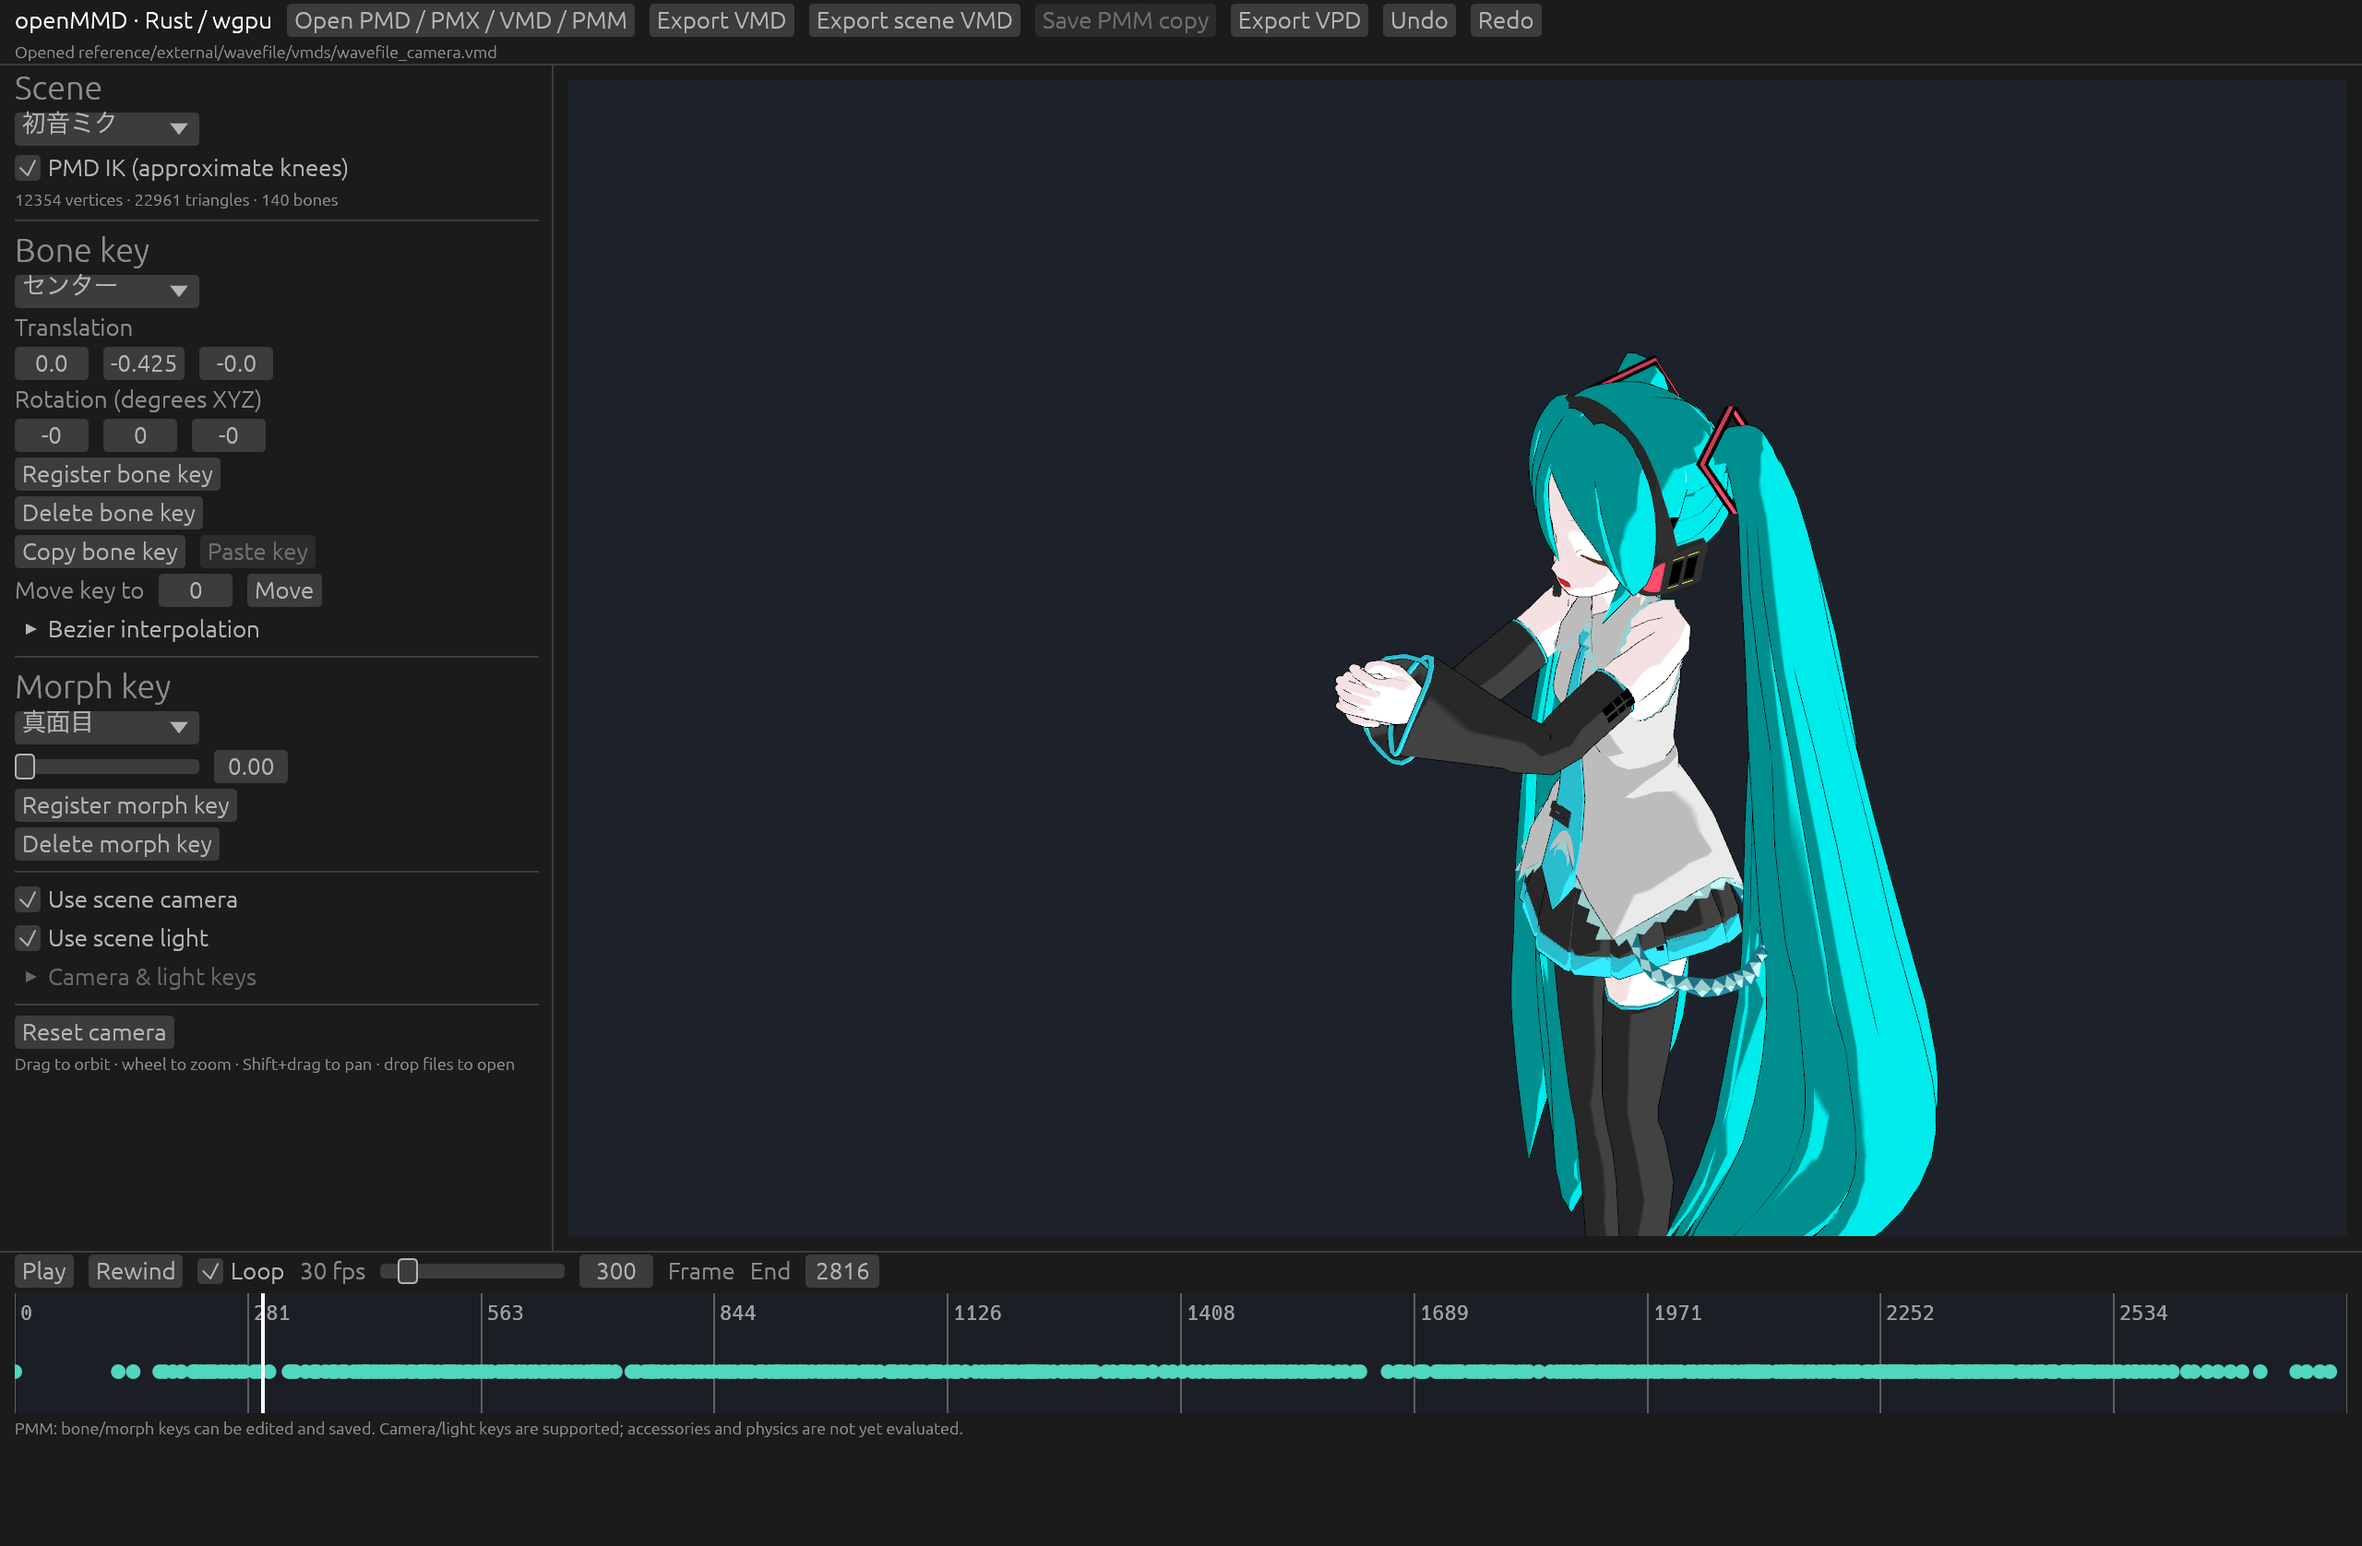
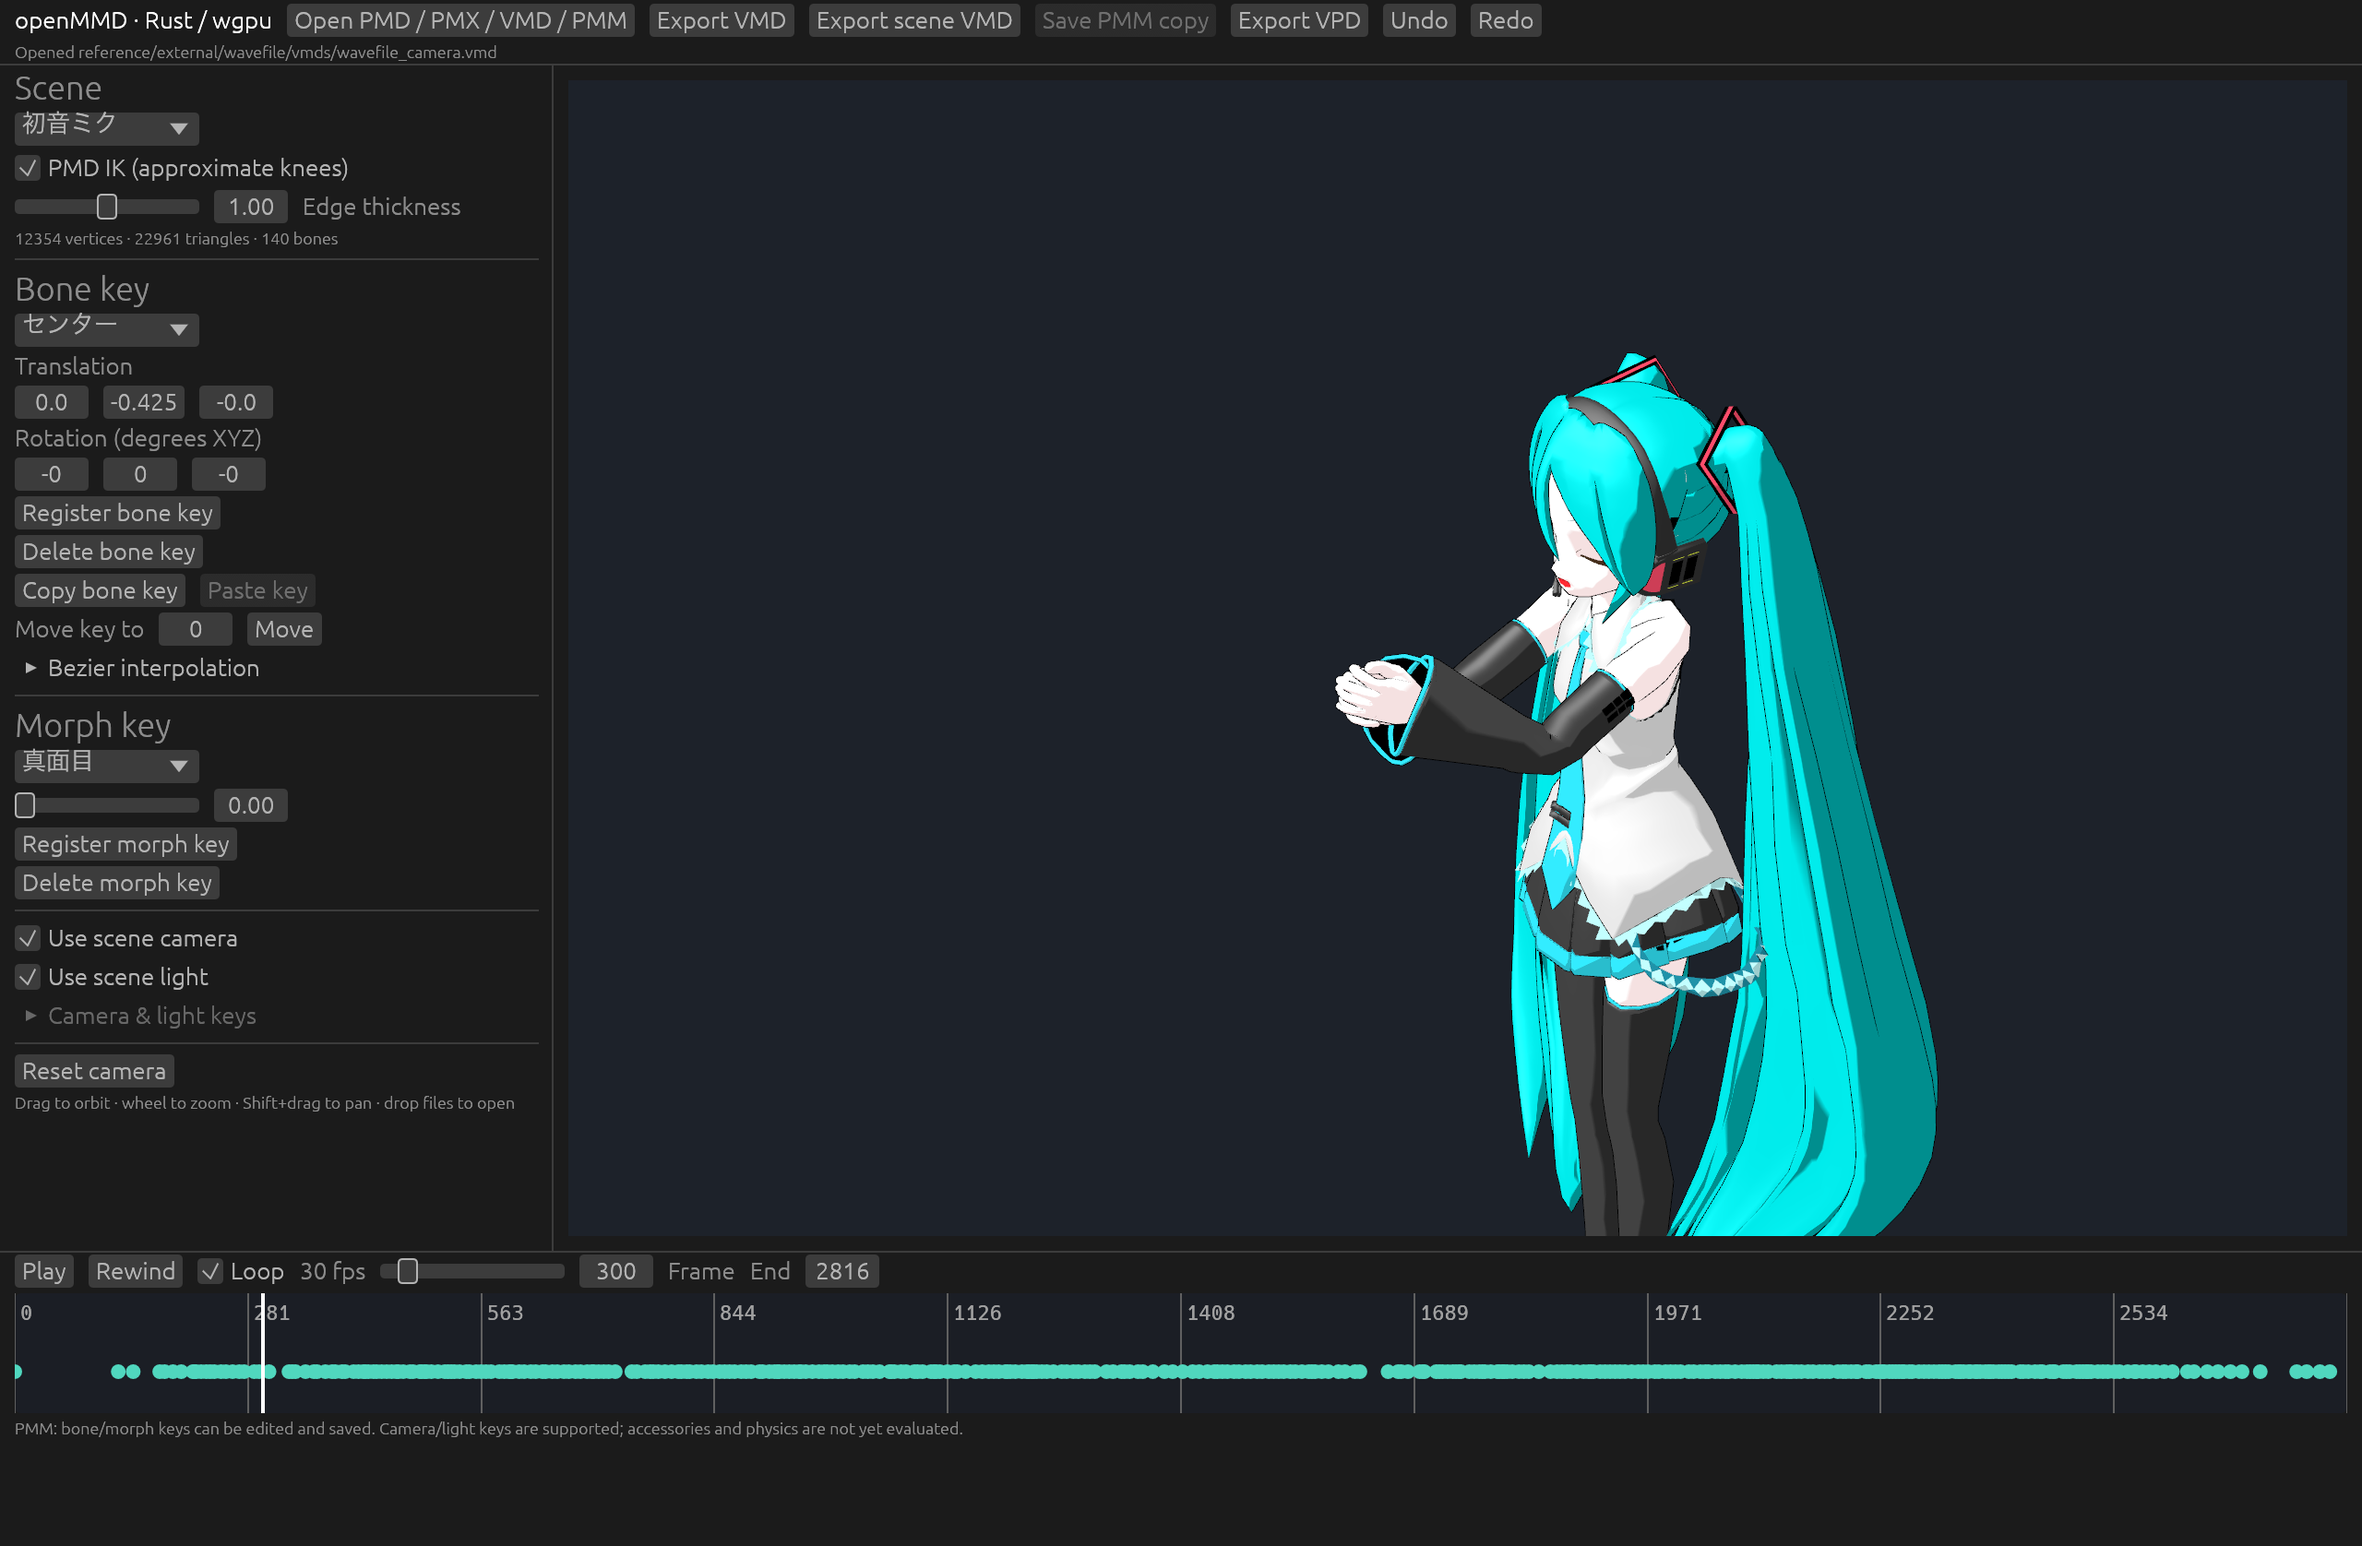
Honor material sidedness and correct mesh front-face lighting

Changed region(s): [[0.5625, 0.2172, 0.8438, 0.8067], [0.0, 0.1241, 0.1875, 0.7136], [0.1562, 0.6826, 0.1875, 0.7136]]

diff --git a/src/renderer.rs b/src/renderer.rs
@@ -62,6 +62,7 @@ pub fn orbit_projection(size: [u32; 2], yaw: f32, pitch: f32, distance: f32, foc
 pub struct Renderer {
     state: egui_wgpu::RenderState,
     pipeline: wgpu::RenderPipeline,
+    double_sided_pipeline: wgpu::RenderPipeline,
     outline_pipeline: wgpu::RenderPipeline,
     camera_buffer: wgpu::Buffer,
     camera_group: wgpu::BindGroup,
@@ -182,7 +183,7 @@ impl Renderer {
             label: Some("PMD toon shader"),
             source: wgpu::ShaderSource::Wgsl(include_str!("model.wgsl").into()),
         });
-        let make_pipeline = |outline| {
+        let make_pipeline = |outline, double_sided| {
             device.create_render_pipeline(&wgpu::RenderPipelineDescriptor {
             label: Some(if outline { "MMD outlines" } else { "MMD mesh" }),
             layout: Some(&layout),
@@ -207,8 +208,8 @@ impl Renderer {
                 })],
             }),
             primitive: wgpu::PrimitiveState {
-                front_face: if outline { wgpu::FrontFace::Cw } else { wgpu::FrontFace::Ccw },
-                cull_mode: if outline { Some(wgpu::Face::Front) } else { None },
+                front_face: wgpu::FrontFace::Cw,
+                cull_mode: if outline { Some(wgpu::Face::Front) } else if double_sided { None } else { Some(wgpu::Face::Back) },
                 ..Default::default()
             },
             depth_stencil: Some(wgpu::DepthStencilState {
@@ -221,8 +222,9 @@ impl Renderer {
             multiview_mask: None, cache: None,
         })
         };
-        let pipeline = make_pipeline(false);
-        let outline_pipeline = make_pipeline(true);
+        let pipeline = make_pipeline(false, false);
+        let double_sided_pipeline = make_pipeline(false, true);
+        let outline_pipeline = make_pipeline(true, false);
         let size = [800, 600];
         let output = target(device, size, wgpu::TextureFormat::Rgba8UnormSrgb);
         let multisample = target_multisample(device, size, wgpu::TextureFormat::Rgba8UnormSrgb, 4);
@@ -246,6 +248,7 @@ impl Renderer {
         Self {
             state,
             pipeline,
+            double_sided_pipeline,
             outline_pipeline,
             camera_buffer,
             camera_group,
@@ -579,6 +582,11 @@ impl Renderer {
                 let mut offset = 0;
                 for &(model, pose) in models {
                     for material in &model.materials {
+                        pass.set_pipeline(if material.double_sided {
+                            &self.double_sided_pipeline
+                        } else {
+                            &self.pipeline
+                        });
                         pass.set_bind_group(1, &self.materials[index], &[]);
                         if pose.visible {
                             pass.draw_indexed(
@@ -854,6 +862,70 @@ mod tests {
             red_pixels(&read_output(&renderer)),
             0,
             "disabled edge still draws outlines"
+        );
+        // Independent one-triangle raster probe: clockwise is the front side in
+        // MMD's left-handed model coordinates. Reversing indices must hide only
+        // single-sided materials, without changing two-sided coverage.
+        let mut triangle = model.clone();
+        triangle.vertices.truncate(3);
+        for (vertex, position) in triangle.vertices.iter_mut().zip([
+            Vec3::new(-0.8, -0.8, 0.5),
+            Vec3::new(0., 0.8, 0.5),
+            Vec3::new(0.8, -0.8, 0.5),
+        ]) {
+            vertex.position = position;
+            vertex.normal = -Vec3::Z;
+        }
+        triangle.indices = vec![0, 1, 2];
+        triangle.materials = vec![crate::format::Material {
+            diffuse: [0., 0., 0., 1.],
+            ambient: Vec3::Y,
+            count: 3,
+            ..Default::default()
+        }];
+        let camera = SceneCamera {
+            view_projection: Mat4::IDENTITY,
+            view: Mat4::IDENTITY,
+            eye: -Vec3::Z,
+            light_direction: -Vec3::Z,
+            light_color: Vec3::ONE,
+        };
+        let green_pixels = |data: &[u8]| {
+            data.as_chunks::<4>()
+                .0
+                .iter()
+                .filter(|p| p[1] > 240 && p[0] < 10 && p[2] < 10)
+                .count()
+        };
+        let mut coverage = Vec::new();
+        for (double_sided, reversed) in [(false, false), (false, true), (true, false), (true, true)]
+        {
+            triangle.materials[0].double_sided = double_sided;
+            triangle.indices = if reversed {
+                vec![0, 2, 1]
+            } else {
+                vec![0, 1, 2]
+            };
+            let pose = Pose::sample(&triangle, &Default::default(), 0.);
+            renderer.load(&triangle, path).unwrap();
+            renderer.draw_scene_camera(&[(&triangle, &pose)], [512, 512], &camera);
+            coverage.push(green_pixels(&read_output(&renderer)));
+        }
+        assert!(coverage[0] > 50000, "front triangle missing: {coverage:?}");
+        assert_eq!(coverage[1], 0, "back face was not culled");
+        assert_eq!(coverage[0], coverage[2]);
+        assert_eq!(coverage[2], coverage[3]);
+        triangle.materials[0].double_sided = false;
+        triangle.materials[0].ambient = Vec3::ZERO;
+        triangle.materials[0].diffuse = [0., 1., 0., 1.];
+        triangle.indices = vec![0, 1, 2];
+        let pose = Pose::sample(&triangle, &Default::default(), 0.);
+        renderer.load(&triangle, path).unwrap();
+        renderer.draw_scene_camera(&[(&triangle, &pose)], [512, 512], &camera);
+        assert_eq!(
+            green_pixels(&read_output(&renderer)),
+            coverage[0],
+            "front normal lighting was inverted"
         );
         // Render constant material probes so the shader's gamma, sphere modes and toon
         // bindings are checked on the GPU rather than inferred from the CPU importer.

diff --git a/tests/materials.rs b/tests/materials.rs
@@ -147,3 +147,15 @@ fn vertex_edge_controls_are_retained() {
     assert_eq!(model.vertices[0].edge_scale, 0.25);
     assert_eq!(model.vertices[1].edge_scale, 1.);
 }
+
+#[test]
+fn pmx_sidedness_follows_the_material_flag() {
+    let mut bytes = pmx();
+    let name = bytes.windows(8).position(|b| b == b"material").unwrap();
+    let flag_offset = name + 8 + 4 + 11 * 4;
+    // The fixture has fractional diffuse alpha: PMX's explicit flag still decides sidedness.
+    bytes[flag_offset] = 16;
+    assert!(!Model::parse(&bytes).unwrap().materials[0].double_sided);
+    bytes[flag_offset] = 17;
+    assert!(Model::parse(&bytes).unwrap().materials[0].double_sided);
+}

diff --git a/docs/rendering.md b/docs/rendering.md
@@ -33,8 +33,7 @@ not a claim that every native MMD shader branch has been reproduced.
 ## Remaining differences
 
 No self-shadow/ground-shadow map, material morphs or MME effects are rendered yet.
-Double-sided parameters are retained;
-all surfaces currently use the existing two-sided pipeline. PMX sphere mode 3
+PMX single-sided materials now cull back faces; two-sided materials retain both sides. PMX sphere mode 3
 requires extra UV channels: it is explicitly warned about and not rendered.
 Transparent-material sorting, precise alpha/depth behavior and all material
 combinations still require implementation and comparison.
@@ -66,7 +65,7 @@ Width currently means viewport pixels: material size 1 with vertex multiplier 1
 expands one pixel along the projected normal. This is an explicit approximation,
 not the recovered MMD 9.32 edge-width formula. Perspective/orthographic projection,
 viewport scaling and the original edge render state still need comparison with
-Windows MMD. Ordinary mesh culling/normal handling remains unchanged in this pass.
+Windows MMD. Mesh and outline passes use clockwise front faces in the left-handed model coordinates.
 
 The parser field layout was cross-checked against the independent
 [mmd-parser implementation](https://github.com/takahirox/mmd-parser/blob/master/src/Parser.ts).
@@ -103,3 +102,19 @@ the UI slider range are preserved; non-finite values are rejected. Regression
 tests cover byte preservation, invalid inputs and independent multipliers after
 rebuilding animation for two models. Original bundled PMM projects are also
 parsed and reopened. Windows MMD acceptance of edited copies remains unverified.
+
+## Material sidedness
+
+The mesh renderer selects back-face culling per material. PMX flag bit 0 enables
+both sides; single-sided PMX material backs are discarded. PMD retains its
+existing opacity-based import rule (alpha below 1 enables both sides). The mesh
+and outline pipelines consistently treat clockwise triangles as front-facing in
+MMD's left-handed coordinates. This also fixes the front/back normal sign used
+by lighting, which previously used the opposite front-face convention.
+
+A GPU triangle fixture verifies front visibility, reversed-winding rejection,
+identical two-sided coverage for both windings, and front-facing directional
+lighting. Existing original-model, hidden-model, toon/sphere and outline probes
+also pass. Alpha sorting and exact original Windows MMD raster-state behavior
+are still unverified. The PMX flag layout is documented in the
+[independent PMX format specification](https://gist.github.com/felixjones/f8a06bd48f9da9a4539f).

diff --git a/docs/pmx.md b/docs/pmx.md
@@ -27,8 +27,7 @@ SDEF parameters and QDEF weights are read; both are currently evaluated using
 ordinary linear blend skinning. SDEF and QDEF deformation will differ from MMD.
 Additional UV channels are read and discarded.
 
-Material names and comments are not retained. Double-sided parameters
-are retained but do not yet control rasterization. Sphere mode 3 requires additional
+Material names and comments are not retained. Double-sided parameters control back-face culling in the shared renderer. Sphere mode 3 requires additional
 UVs and is retained with a runtime warning rather than rendered.
 Bone flags, transform ordering, append rotation/translation, fixed/local axes,
 external parent transforms and post-physics transforms are read but not retained
